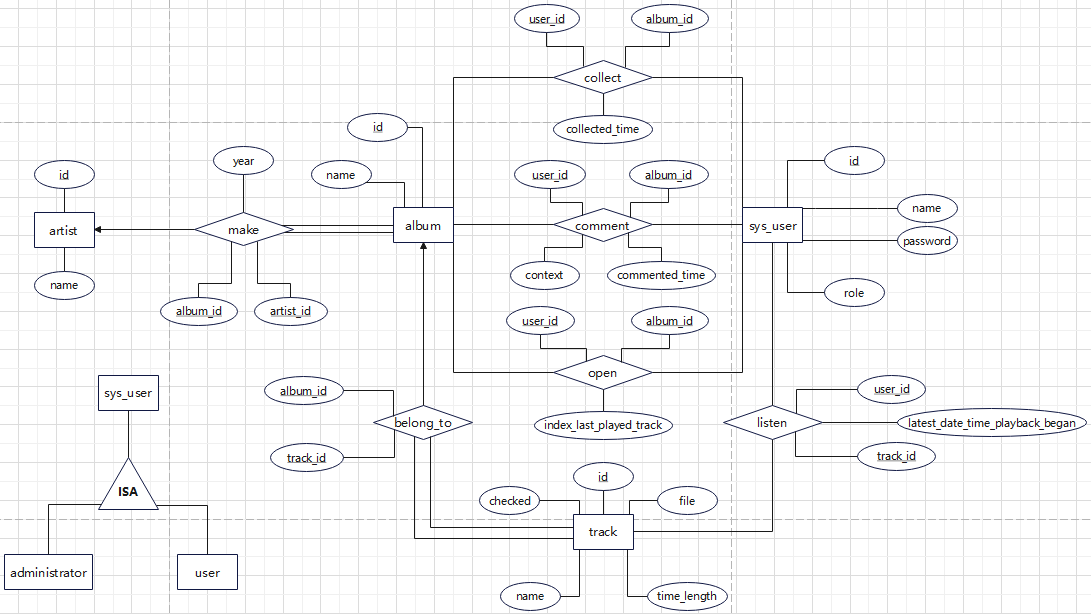
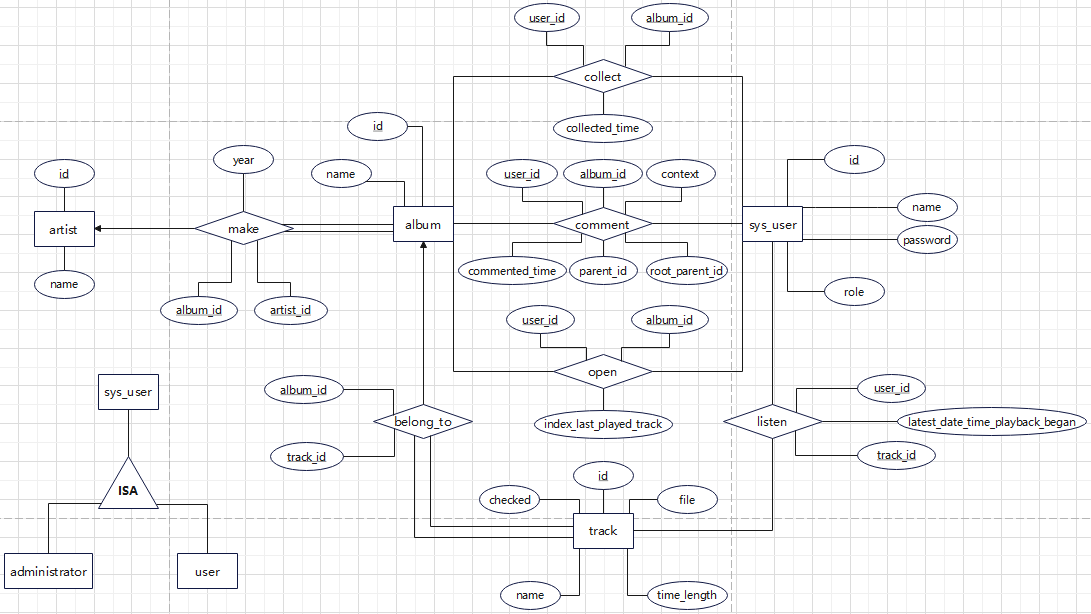
（规范命名）把几处由下划线式改为了驼峰式&更新了ER图和建表语句（即新增字段和新加的唯一性约束）

diff --git a/src/main/java/com/dbdev/music/repository/ArtistRepository.java b/src/main/java/com/dbdev/music/repository/ArtistRepository.java
@@ -27,13 +27,13 @@ public interface ArtistRepository extends JpaRepository<Artist, Long> {
             "join Track tc on tc.id=bl.trackId where tc.name like %?1%")
     Page<Artist> findByTrackNameLike(String name, Pageable pageable);
 
-    @Query("select new com.dbdev.music.domain.ArtistWithExtraInfo(ar, count(distinct al), count(distinct tc)) " +
+    @Query("select distinct new com.dbdev.music.domain.ArtistWithExtraInfo(ar, count(distinct al), count(distinct tc)) " +
             "from Artist ar join Make mk on ar.id=mk.artistId " +
             "join Album al on al.id=mk.albumId join BelongTo bl on al.id=bl.albumId " +
             "join Track tc on tc.id=bl.trackId group by ar, mk, bl")
     Page<List<ArtistWithExtraInfo>> findAllWithExtraInfo(PageRequest pageRequest);
 
-    @Query("select new com.dbdev.music.domain.ArtistWithExtraInfo(ar, count(distinct al), count(distinct tc)) " +
+    @Query("select distinct new com.dbdev.music.domain.ArtistWithExtraInfo(ar, count(distinct al), count(distinct tc)) " +
             "from Artist ar join Make mk on ar.id=mk.artistId " +
             "join Album al on al.id=mk.albumId join BelongTo bl on al.id=bl.albumId " +
             "join Track tc on tc.id=bl.trackId where ar.name like %?1% group by ar, mk, bl")

diff --git a/src/main/java/com/dbdev/music/repository/AlbumRepository.java b/src/main/java/com/dbdev/music/repository/AlbumRepository.java
@@ -24,13 +24,13 @@ public interface AlbumRepository extends JpaRepository<Album, Long> {
             "join Track tc on tc.id=bl.trackId where tc.name like %?1%")
     Page<Album> findByTrackNameLike(String name, Pageable pageable);
 
-    @Query("select new com.dbdev.music.domain.AlbumWithExtraInfo(al, arti.name, count(distinct tc)) " +
+    @Query("select distinct new com.dbdev.music.domain.AlbumWithExtraInfo(al, arti.name, count(distinct tc)) " +
             "from Artist arti join Make mk on arti.id=mk.artistId " +
             "join Album al on al.id=mk.albumId join BelongTo bl on al.id=bl.albumId " +
             "join Track tc on tc.id=bl.trackId group by arti, mk, al, bl")
     Page<List<AlbumWithExtraInfo>> findAllWithExtraInfo(PageRequest pageRequest);
 
-    @Query("select new com.dbdev.music.domain.AlbumWithExtraInfo(al, arti.name, count(distinct tc)) " +
+    @Query("select distinct new com.dbdev.music.domain.AlbumWithExtraInfo(al, arti.name, count(distinct tc)) " +
             "from Artist arti join Make mk on arti.id=mk.artistId " +
             "join Album al on al.id=mk.albumId join BelongTo bl on al.id=bl.albumId " +
             "join Track tc on tc.id=bl.trackId where al.name like %?1% group by arti, mk, al, bl")

diff --git a/src/main/java/com/dbdev/music/repository/TrackRepository.java b/src/main/java/com/dbdev/music/repository/TrackRepository.java
@@ -24,13 +24,13 @@ public interface TrackRepository extends JpaRepository<Track, Long> {
             "join Artist atst on atst.id=mk.artistId where atst.name like %?1%")
     Page<List<Track>> findTracksByArtistNameLike(String name, Pageable pageable);
 
-    @Query("select new com.dbdev.music.domain.TrackWithExtraInfo(tc, atst.name, al.name) " +
+    @Query("select distinct new com.dbdev.music.domain.TrackWithExtraInfo(tc, atst.name, al.name) " +
             "from Track tc join BelongTo bl on tc.id=bl.trackId " +
             "join Album al on al.id=bl.albumId join Make mk on al.id=mk.albumId " +
             "join Artist atst on atst.id=mk.artistId")
     Page<List<TrackWithExtraInfo>> findAllWithExtraInfo(PageRequest pageRequest);
 
-    @Query("select new com.dbdev.music.domain.TrackWithExtraInfo(tc, atst.name, al.name) " +
+    @Query("select distinct new com.dbdev.music.domain.TrackWithExtraInfo(tc, atst.name, al.name) " +
             "from Track tc join BelongTo bl on tc.id=bl.trackId " +
             "join Album al on al.id=bl.albumId join Make mk on al.id=mk.albumId " +
             "join Artist atst on atst.id=mk.artistId where tc.name like %?1%")

diff --git a/src/main/java/com/dbdev/music/domain/TrackWithExtraInfo.java b/src/main/java/com/dbdev/music/domain/TrackWithExtraInfo.java
@@ -12,13 +12,13 @@ public class TrackWithExtraInfo extends Track{
 
     private String albumName;
 
-    public TrackWithExtraInfo(Track tc, String artist_name, String album_name) {
+    public TrackWithExtraInfo(Track tc, String artistName, String albumName) {
         super(tc.getName(), tc.getFile(), tc.isChecked(), tc.getTimeLength());
         this.setId(tc.getId());
         this.setCreateTime(tc.getCreateTime());
         this.setUpdateTime(tc.getUpdateTime());
         this.setVersion(tc.getVersion());
-        this.artistName = artist_name;
-        this.albumName = album_name;
+        this.artistName = artistName;
+        this.albumName = albumName;
     }
 }
